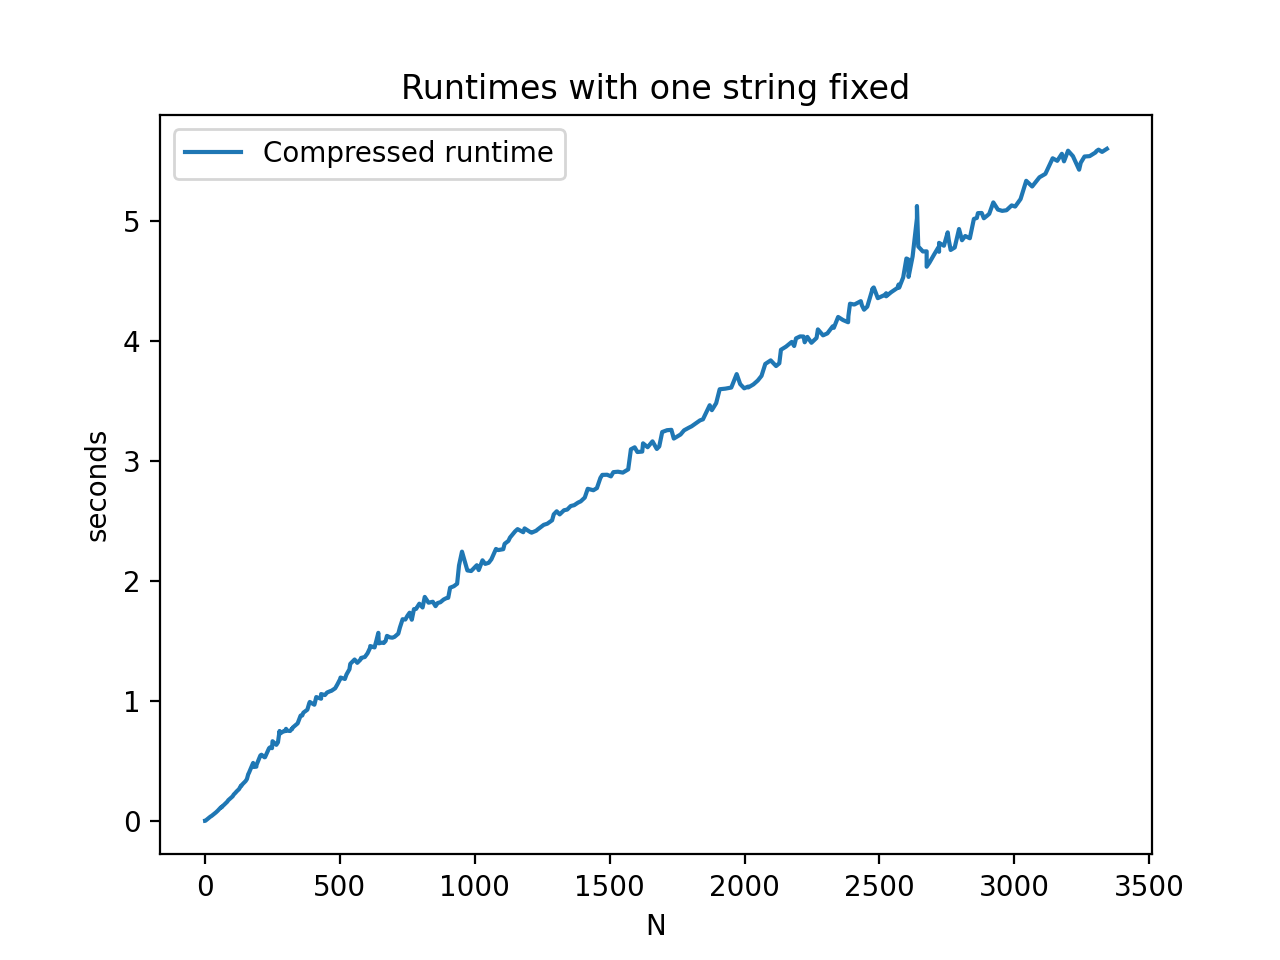
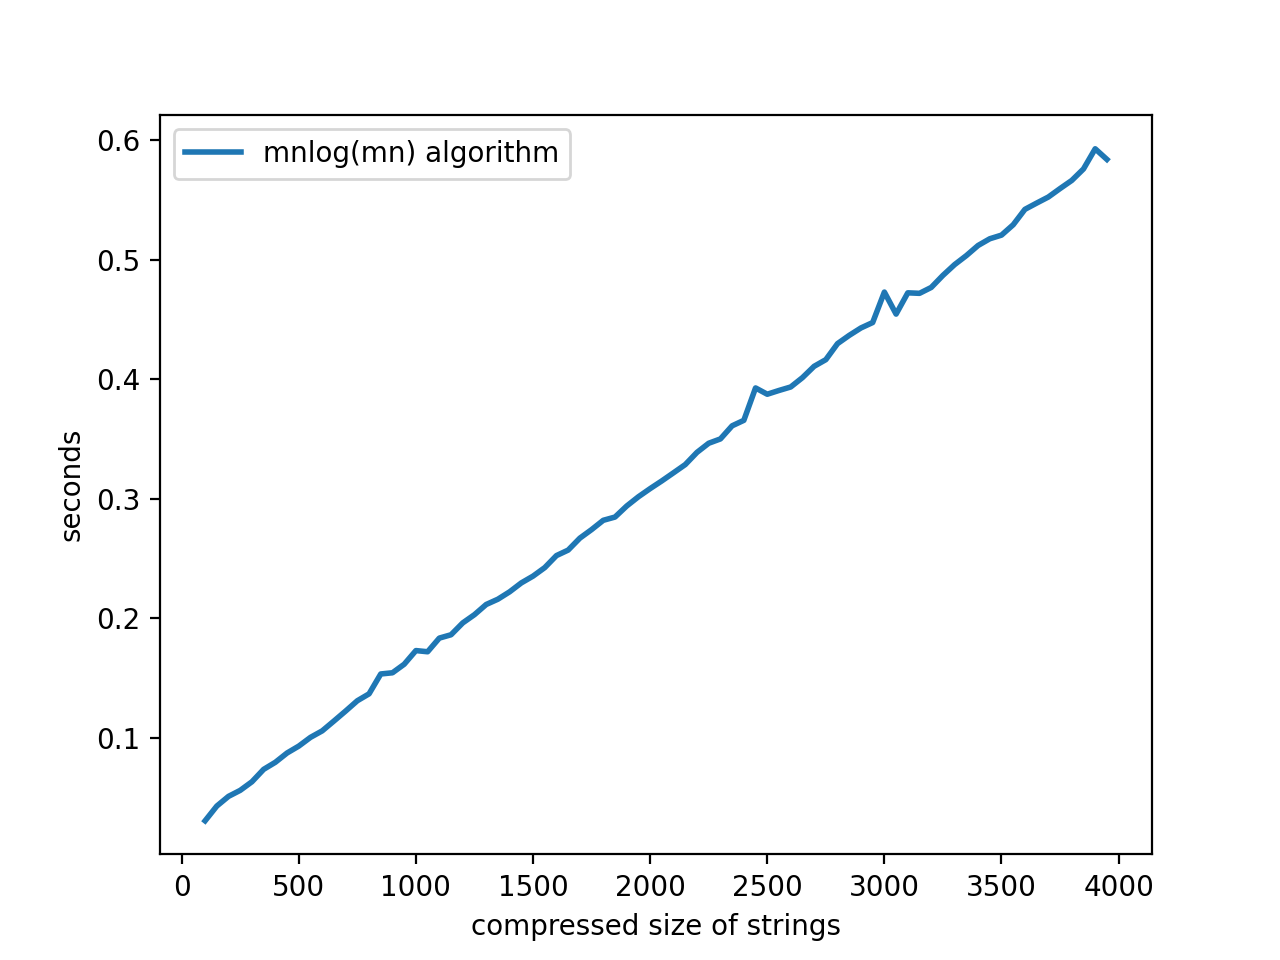
measurements

diff --git a/plot_runtime.py b/plot_runtime.py
@@ -1,42 +1,52 @@
 import matplotlib.pyplot as plt 
 import math
 
-f = open("run_times.out", "r")
 
-data = f.read().split('\n')
+def get_results(file):
+  data = file.read().split('\n')
 
-results = []
-operation_cost = 1.0/5000000
-for i in range(1,len(data)-1):
-  elem = data[i].split(',')
-  result = {}
-  result['M'] = int(elem[0])
-  result['N'] = int(elem[1])
-  result['compression_fact0'] = float(elem[2])
-  result['compression_fact1'] = float(elem[3])
-  result['naive_runtime'] = float(elem[4])
-  result['rle_runtime'] = float(elem[5])
-  result['m'] = result['M']/result['compression_fact0']
-  result['n'] = result['N']/result['compression_fact1']
-  result['compressed_size'] = result['m']
-  results.append(result)
+  results = []
+  for i in range(1,len(data)-1):
+    elem = data[i].split(',')
+    result = {}
+    result['M'] = int(elem[0])
+    result['N'] = int(elem[1])
+    result['compression_fact0'] = float(elem[2])
+    result['compression_fact1'] = float(elem[3])
+    result['naive_runtime'] = float(elem[4])
+    result['rle_runtime'] = float(elem[5])
+    result['m'] = result['M']/result['compression_fact0']
+    result['n'] = result['N']/result['compression_fact1']
+    result['compressed_size'] = result['m']
+    results.append(result)
+  return results
 
-# results.sort(key = lambda x : x['compressed_size'])
+file_clifford = open("measurements/clifford_rle_times.txt", "r")
+file_chen = open("measurements/chen_rle_times.txt", "r")
 
-compressed_sizes = [result['compressed_size'] for result in results]
-rle_runtimes = [result['rle_runtime'] for result in results]
-mnlogmn = [operation_cost * m**2 * math.log(m**2, 2) for m in compressed_sizes]
+f = open("run_times.out")
+operation_cost = 1.0/5500000
+clifford_results = get_results(f)
+# chen_results = get_results(file_chen)
+clifford_results.sort(key = lambda x : x['compressed_size'])
+# chen_results.sort(key = lambda x : x['compressed_size'])
 
-# plt.plot(compressed_sizes, rle_runtimes, label='Compressed runtime')
-# plt.plot(compressed_sizes, mnlogmn, label='$mnlog(mn)$')
-sizes = [result['M'] for result in results]
-naive_runtimes = [result['naive_runtime'] for result in results]
-plt.plot(sizes, naive_runtimes, label='Naive')
-plt.plot(sizes, rle_runtimes, label='Compressed')
+compressed_sizes = [result['compressed_size'] for result in clifford_results]
+clifford_rle_runtimes = [result['rle_runtime'] for result in clifford_results]
+# chen_rle_runtimes = [result['rle_runtime'] for result in chen_results]
+
+# mnlogmn = [operation_cost * m**2 * math.log(m**2, 2) for m in compressed_sizes]
+
+plt.plot(compressed_sizes, clifford_rle_runtimes, label='mnlog(mn) algorithm', linewidth=2)
+# plt.plot(compressed_sizes, chen_rle_runtimes, label='$mn^2 algorithm$', linewidth=1.3)
+# sizes = [result['M'] for result in results]
+# naive_runtimes = [result['naive_runtime'] for result in results]
+# plt.plot(sizes, naive_runtimes, label='Naive')
+# plt.plot(sizes, rle_runtimes, label='Compressed')
 # plt.plot(compressed_sizes, NlogN, label='Complexity - $Nlog(N)$')
 # plt.plot(xs, aux, label='4x naive')
 # plt.plot(xs, compression_factor, label='Compression factor')
-plt.xlabel('N')
+plt.xlabel('compressed size of strings')
 plt.ylabel('seconds')
 plt.legend()
 # plt.title('Runtimes with one string fixed')

diff --git a/generate_binary_images.py b/generate_binary_images.py
@@ -35,36 +35,34 @@ ret, binary_img2 = cv2.threshold(img2, 127, 255, cv2.THRESH_BINARY)
 # binary_img1 = cv2.resize(binary_img1, (200, 100))
 # binary_img2 = cv2.resize(binary_img2, (200, 100))
 
-# binary_img1 = [elem for sublist in binary_img1 for elem in sublist]
-# binary_img2 = [elem for sublist in binary_img2 for elem in sublist]
+binary_img1 = [elem for sublist in binary_img1 for elem in sublist]
+binary_img2 = [elem for sublist in binary_img2 for elem in sublist]
 # binary_img1 = binary_img1[10000:30000]
 # binary_img2 = binary_img2[10000:30000]
-# binary_img1 = duplicate_all_elements(binary_img1)
-# binary_img2 = duplicate_all_elements(binary_img2)
 
-# fixed_size = 2000
-# fixed_string = binary_img2[:fixed_size]
-# for size in range(50, 15001, 50):
-#     print(size)
-#     string1 = binary_img1[:size]
-#     string2 = binary_img2[:size]
-#     filename = "inputs/input{}.in".format(size)
-#     out = open(filename, "w")
-#     out.write("{} {}\n".format(size, size))
-#     write_string_to_file(string1, out)
-#     out.write("\n")
-#     write_string_to_file(string2, out)
+fixed_size = 1000
+fixed_string = binary_img2[:fixed_size]
+for size in range(50, 15001, 50):
+    print(size)
+    string1 = binary_img1[:size]
+    string2 = binary_img2[:fixed_size]
+    filename = "inputs/input{}.in".format(size)
+    out = open(filename, "w")
+    out.write("{} {}\n".format(size, fixed_size))
+    write_string_to_file(string1, out)
+    out.write("\n")
+    write_string_to_file(string2, out)
 repeats = 1
-for size in range(1,100):
-  height = size
-  width = size * 2
-  dim = (width, height)
-  res_img1 = cv2.resize(binary_img1,dim)
-  res_img2 = cv2.resize(binary_img2,dim)
-  filename = "inputs/input{}x{}.in".format(height, width)
-  out = open(filename, "w")
-  out.write("{} {}\n".format(width * height * repeats, width * height *repeats))
-  write_img_to_file(res_img1, out)
-  out.write("\n")
-  write_img_to_file(res_img2, out)
+# for size in range(1,100):
+#   height = size
+#   width = size * 2
+#   dim = (width, height)
+#   res_img1 = cv2.resize(binary_img1,dim)
+#   res_img2 = cv2.resize(binary_img2,dim)
+#   filename = "inputs/input{}x{}.in".format(height, width)
+#   out = open(filename, "w")
+#   out.write("{} {}\n".format(width * height * repeats, width * height *repeats))
+#   write_img_to_file(res_img1, out)
+#   out.write("\n")
+#   write_img_to_file(res_img2, out)
 

diff --git a/measure_runtime.cpp b/measure_runtime.cpp
@@ -32,17 +32,23 @@ int main()
   // std::ofstream fout_naive("run_times_naive.out");
   fout << "M, N, compression factor 1, compression factor 2, naive time, rle time\n";
   // fout_rle<<"M, N, compression factor 1, compression factor 2, time\n";
-  for (int i = 50; i <= 15000; i += 50)
+  int fixed_size = 100;
+  std::string s0, s1;
+  int M, N, m, n;
+  for (int i = 50; i < 4000; i += 50)
   {
     // height is i and width is i*2
     // std::ifstream fin("inputs/input" + std::to_string(i) + "x" + std::to_string(i*2) + ".in");
-    std::ifstream fin("inputs/input" + std::to_string(i) + ".in");
-    int M, N;
-    fin >> M >> N;
-    std::string s0, s1;
-    helper::read_string(fin, M, s0);
-    helper::read_string(fin, N, s1);
-
+    // std::ifstream fin("inputs/input" + std::to_string(i) + ".in");
+    // fin >> M >> N;
+    // helper::read_string(fin, M, s0);
+    // helper::read_string(fin, N, s1);
+    m = i;
+    n = fixed_size;
+    s0 = get_str(m, 20);
+    s1 = get_str(n,20);
+    M = s0.length();
+    N = s1.length();
     RLE_string_helper rle_helper;
     std::vector<RLE_run> rle_s0 = rle_helper.get_rle_string(s0);
     std::vector<RLE_run> rle_s1 = rle_helper.get_rle_string(s1);
@@ -56,9 +62,13 @@ int main()
     // start = std::clock();
     // sol = rle_ED::get_naive_edit_dist(s0, s1);
     // naive_time = (std::clock() - start) / (double)CLOCKS_PER_SEC;
-    start = std::clock();
-    sol_rle = rle_ED::get_rle_edit_dist(rle_s0, rle_s1);
-    rle_time = (std::clock() - start) / (double)CLOCKS_PER_SEC;
+    rle_time = 0;
+    for(int j = 0; j < 5; j++){
+      start = std::clock();
+      sol_rle = rle_ED::get_rle_edit_dist(rle_s0, rle_s1);
+      rle_time += (std::clock() - start) / (double)CLOCKS_PER_SEC;
+    }
+    rle_time /= 5;
     // if (sol != sol_rle)
     // {
     //   std::cout << "Failed!!!\n"

diff --git a/edit_distance_chen/measure_runtime.cpp b/edit_distance_chen/measure_runtime.cpp
@@ -9,7 +9,7 @@
 int main(){
   std::ofstream fout("run_times.out");
   fout<<"M, N, compression factor 1, compression factor 2, naive time, rle time\n";
-  for(int i = 1; i < 70; i+=1){
+  for(int i = 1; i < 90; i+=1){
     // height is i and width is i*2
     std::ifstream fin("../inputs/input" + std::to_string(i) + "x" + std::to_string(i*2) + ".in");
     int M, N;
@@ -29,9 +29,13 @@ int main(){
     // start = std::clock();
     // sol = edit_distance::get_edit_dist(M, N, s0, s1);
     // naive_time = ( std::clock() - start ) / (double) CLOCKS_PER_SEC;
-    start = std::clock();
-    sol_rle = edit_distance::get_rle_edit_dist(rle_s0, rle_s1);
-    rle_time = ( std::clock() - start ) / (double) CLOCKS_PER_SEC;
+    rle_time = 0;
+    for(int j = 0; j < 5; j++){
+      start = std::clock();
+      sol_rle = edit_distance::get_rle_edit_dist(rle_s0, rle_s1);
+      rle_time += ( std::clock() - start ) / (double) CLOCKS_PER_SEC;
+    } 
+    rle_time/=5;
     // if (sol_rle != sol)
     // {
     //   std::cout << "Failed test " << i << '\n';
